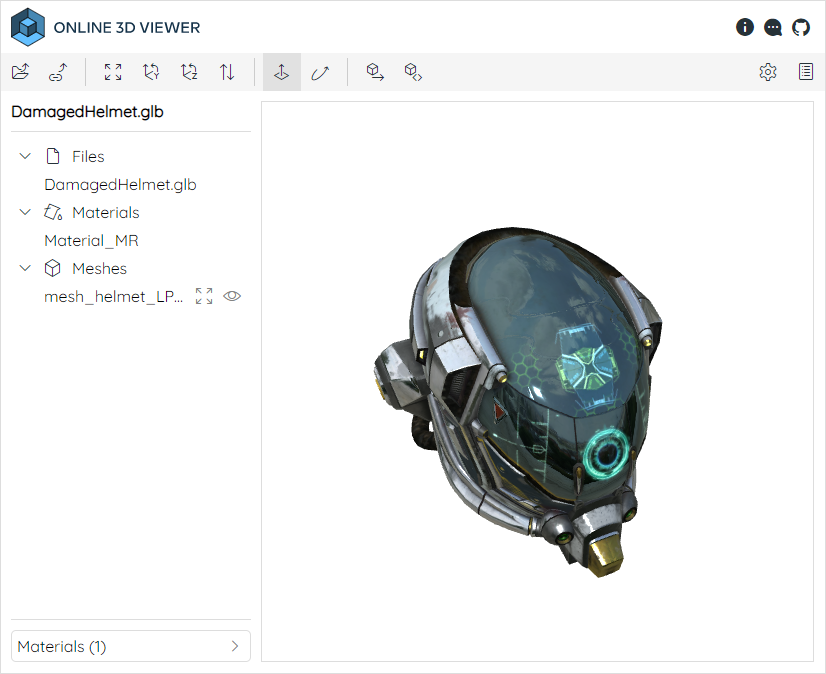
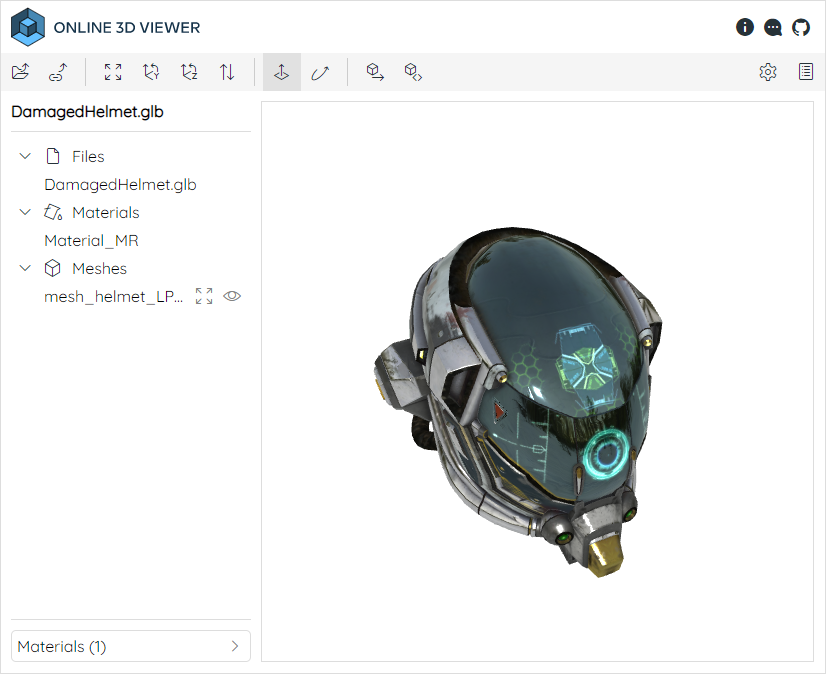
Replace environment map.

Changed region(s): [[0.454, 0.3427, 0.8172, 0.8724]]

diff --git a/sandbox/embed_selfhost_externallibs.html b/sandbox/embed_selfhost_externallibs.html
@@ -96,12 +96,12 @@
     <div class="online_3d_viewer"
 		style="width: 360px; height: 240px;"
         model="../../test/testfiles/gltf/Box/glTF-Binary/Box.glb"
-		environmentmap="../website/assets/envmaps/fishermans_bastion/posx.jpg,../website/assets/envmaps/fishermans_bastion/negx.jpg,../website/assets/envmaps/fishermans_bastion/posy.jpg,../website/assets/envmaps/fishermans_bastion/negy.jpg,../website/assets/envmaps/fishermans_bastion/posz.jpg,../website/assets/envmaps/fishermans_bastion/negz.jpg">
+		environmentmap="../website/assets/envmaps/forest/posx.jpg,../website/assets/envmaps/forest/negx.jpg,../website/assets/envmaps/forest/posy.jpg,../website/assets/envmaps/forest/negy.jpg,../website/assets/envmaps/forest/posz.jpg,../website/assets/envmaps/forest/negz.jpg">
     </div>
     <div class="online_3d_viewer"
 		style="width: 360px; height: 240px;"
         model="../../test/testfiles/gltf/Box/glTF-Draco/Box.gltf,../../test/testfiles/gltf/Box/glTF-Draco/Box.bin"
-		environmentmap="../website/assets/envmaps/fishermans_bastion/posx.jpg,../website/assets/envmaps/fishermans_bastion/negx.jpg,../website/assets/envmaps/fishermans_bastion/posy.jpg,../website/assets/envmaps/fishermans_bastion/negy.jpg,../website/assets/envmaps/fishermans_bastion/posz.jpg,../website/assets/envmaps/fishermans_bastion/negz.jpg">
+		environmentmap="../website/assets/envmaps/forest/posx.jpg,../website/assets/envmaps/forest/negx.jpg,../website/assets/envmaps/forest/posy.jpg,../website/assets/envmaps/forest/negy.jpg,../website/assets/envmaps/forest/posz.jpg,../website/assets/envmaps/forest/negz.jpg">
     </div>
     <div class="online_3d_viewer"
 		style="width: 360px; height: 240px;"
@@ -110,7 +110,7 @@
     <div class="online_3d_viewer"
 		style="width: 360px; height: 240px;"
         model="../../test/testfiles/gltf/DamagedHelmet/glTF-Binary/DamagedHelmet.glb"
-		environmentmap="../website/assets/envmaps/fishermans_bastion/posx.jpg,../website/assets/envmaps/fishermans_bastion/negx.jpg,../website/assets/envmaps/fishermans_bastion/posy.jpg,../website/assets/envmaps/fishermans_bastion/negy.jpg,../website/assets/envmaps/fishermans_bastion/posz.jpg,../website/assets/envmaps/fishermans_bastion/negz.jpg">
+		environmentmap="../website/assets/envmaps/forest/posx.jpg,../website/assets/envmaps/forest/negx.jpg,../website/assets/envmaps/forest/posy.jpg,../website/assets/envmaps/forest/negy.jpg,../website/assets/envmaps/forest/posz.jpg,../website/assets/envmaps/forest/negz.jpg">
 	</div>
     <div class="online_3d_viewer"
 		style="width: 360px; height: 240px;"

diff --git a/website/o3dv/js/embed.js b/website/o3dv/js/embed.js
@@ -28,7 +28,7 @@ OV.Embed = class
             let defaultColor = this.hashHandler.GetDefaultColorFromHash ();
             if (defaultColor !== null) {
                 settings.defaultColor = defaultColor;
-            }            
+            }
             this.modelLoader.LoadFromUrlList (urls, settings);
             let hashParameters = OV.CreateModelUrlParameters (urls);
             let websiteUrl = this.parameters.websiteLinkDiv.attr ('href') + '#' + hashParameters;
@@ -60,19 +60,19 @@ OV.Embed = class
         } else {
             this.viewer.SetUpVector (importResult.upVector, false);
         }
-        this.viewer.FitSphereToWindow (boundingSphere, false);        
-    }    
+        this.viewer.FitSphereToWindow (boundingSphere, false);
+    }
 
     InitViewer (canvas)
     {
         this.viewer.Init (canvas.get (0));
         this.viewer.SetEnvironmentMap ([
-            'assets/envmaps/fishermans_bastion/posx.jpg',
-            'assets/envmaps/fishermans_bastion/negx.jpg',
-            'assets/envmaps/fishermans_bastion/posy.jpg',
-            'assets/envmaps/fishermans_bastion/negy.jpg',
-            'assets/envmaps/fishermans_bastion/posz.jpg',
-            'assets/envmaps/fishermans_bastion/negz.jpg'
+            'assets/envmaps/forest/posx.jpg',
+            'assets/envmaps/forest/negx.jpg',
+            'assets/envmaps/forest/posy.jpg',
+            'assets/envmaps/forest/negy.jpg',
+            'assets/envmaps/forest/posz.jpg',
+            'assets/envmaps/forest/negz.jpg'
         ]);
     }
 
@@ -81,7 +81,7 @@ OV.Embed = class
         OV.InitModelLoader (this.modelLoader, {
             onStart : () =>
             {
-                
+
             },
             onFinish : (importResult, threeObject) =>
             {
@@ -93,8 +93,8 @@ OV.Embed = class
             },
             onError : (importError) =>
             {
-                
+
             }
         });
-    } 
+    }
 };

diff --git a/website/o3dv/js/website.js b/website/o3dv/js/website.js
@@ -344,12 +344,12 @@ OV.Website = class
         this.viewer.Init (canvas.get (0));
         this.viewer.SetBackgroundColor (this.settings.backgroundColor);
         this.viewer.SetEnvironmentMap ([
-            'assets/envmaps/fishermans_bastion/posx.jpg',
-            'assets/envmaps/fishermans_bastion/negx.jpg',
-            'assets/envmaps/fishermans_bastion/posy.jpg',
-            'assets/envmaps/fishermans_bastion/negy.jpg',
-            'assets/envmaps/fishermans_bastion/posz.jpg',
-            'assets/envmaps/fishermans_bastion/negz.jpg'
+            'assets/envmaps/forest/posx.jpg',
+            'assets/envmaps/forest/negx.jpg',
+            'assets/envmaps/forest/posy.jpg',
+            'assets/envmaps/forest/negy.jpg',
+            'assets/envmaps/forest/posz.jpg',
+            'assets/envmaps/forest/negz.jpg'
         ]);
         this.SetUIState (OV.WebsiteUIState.Intro);
     }
